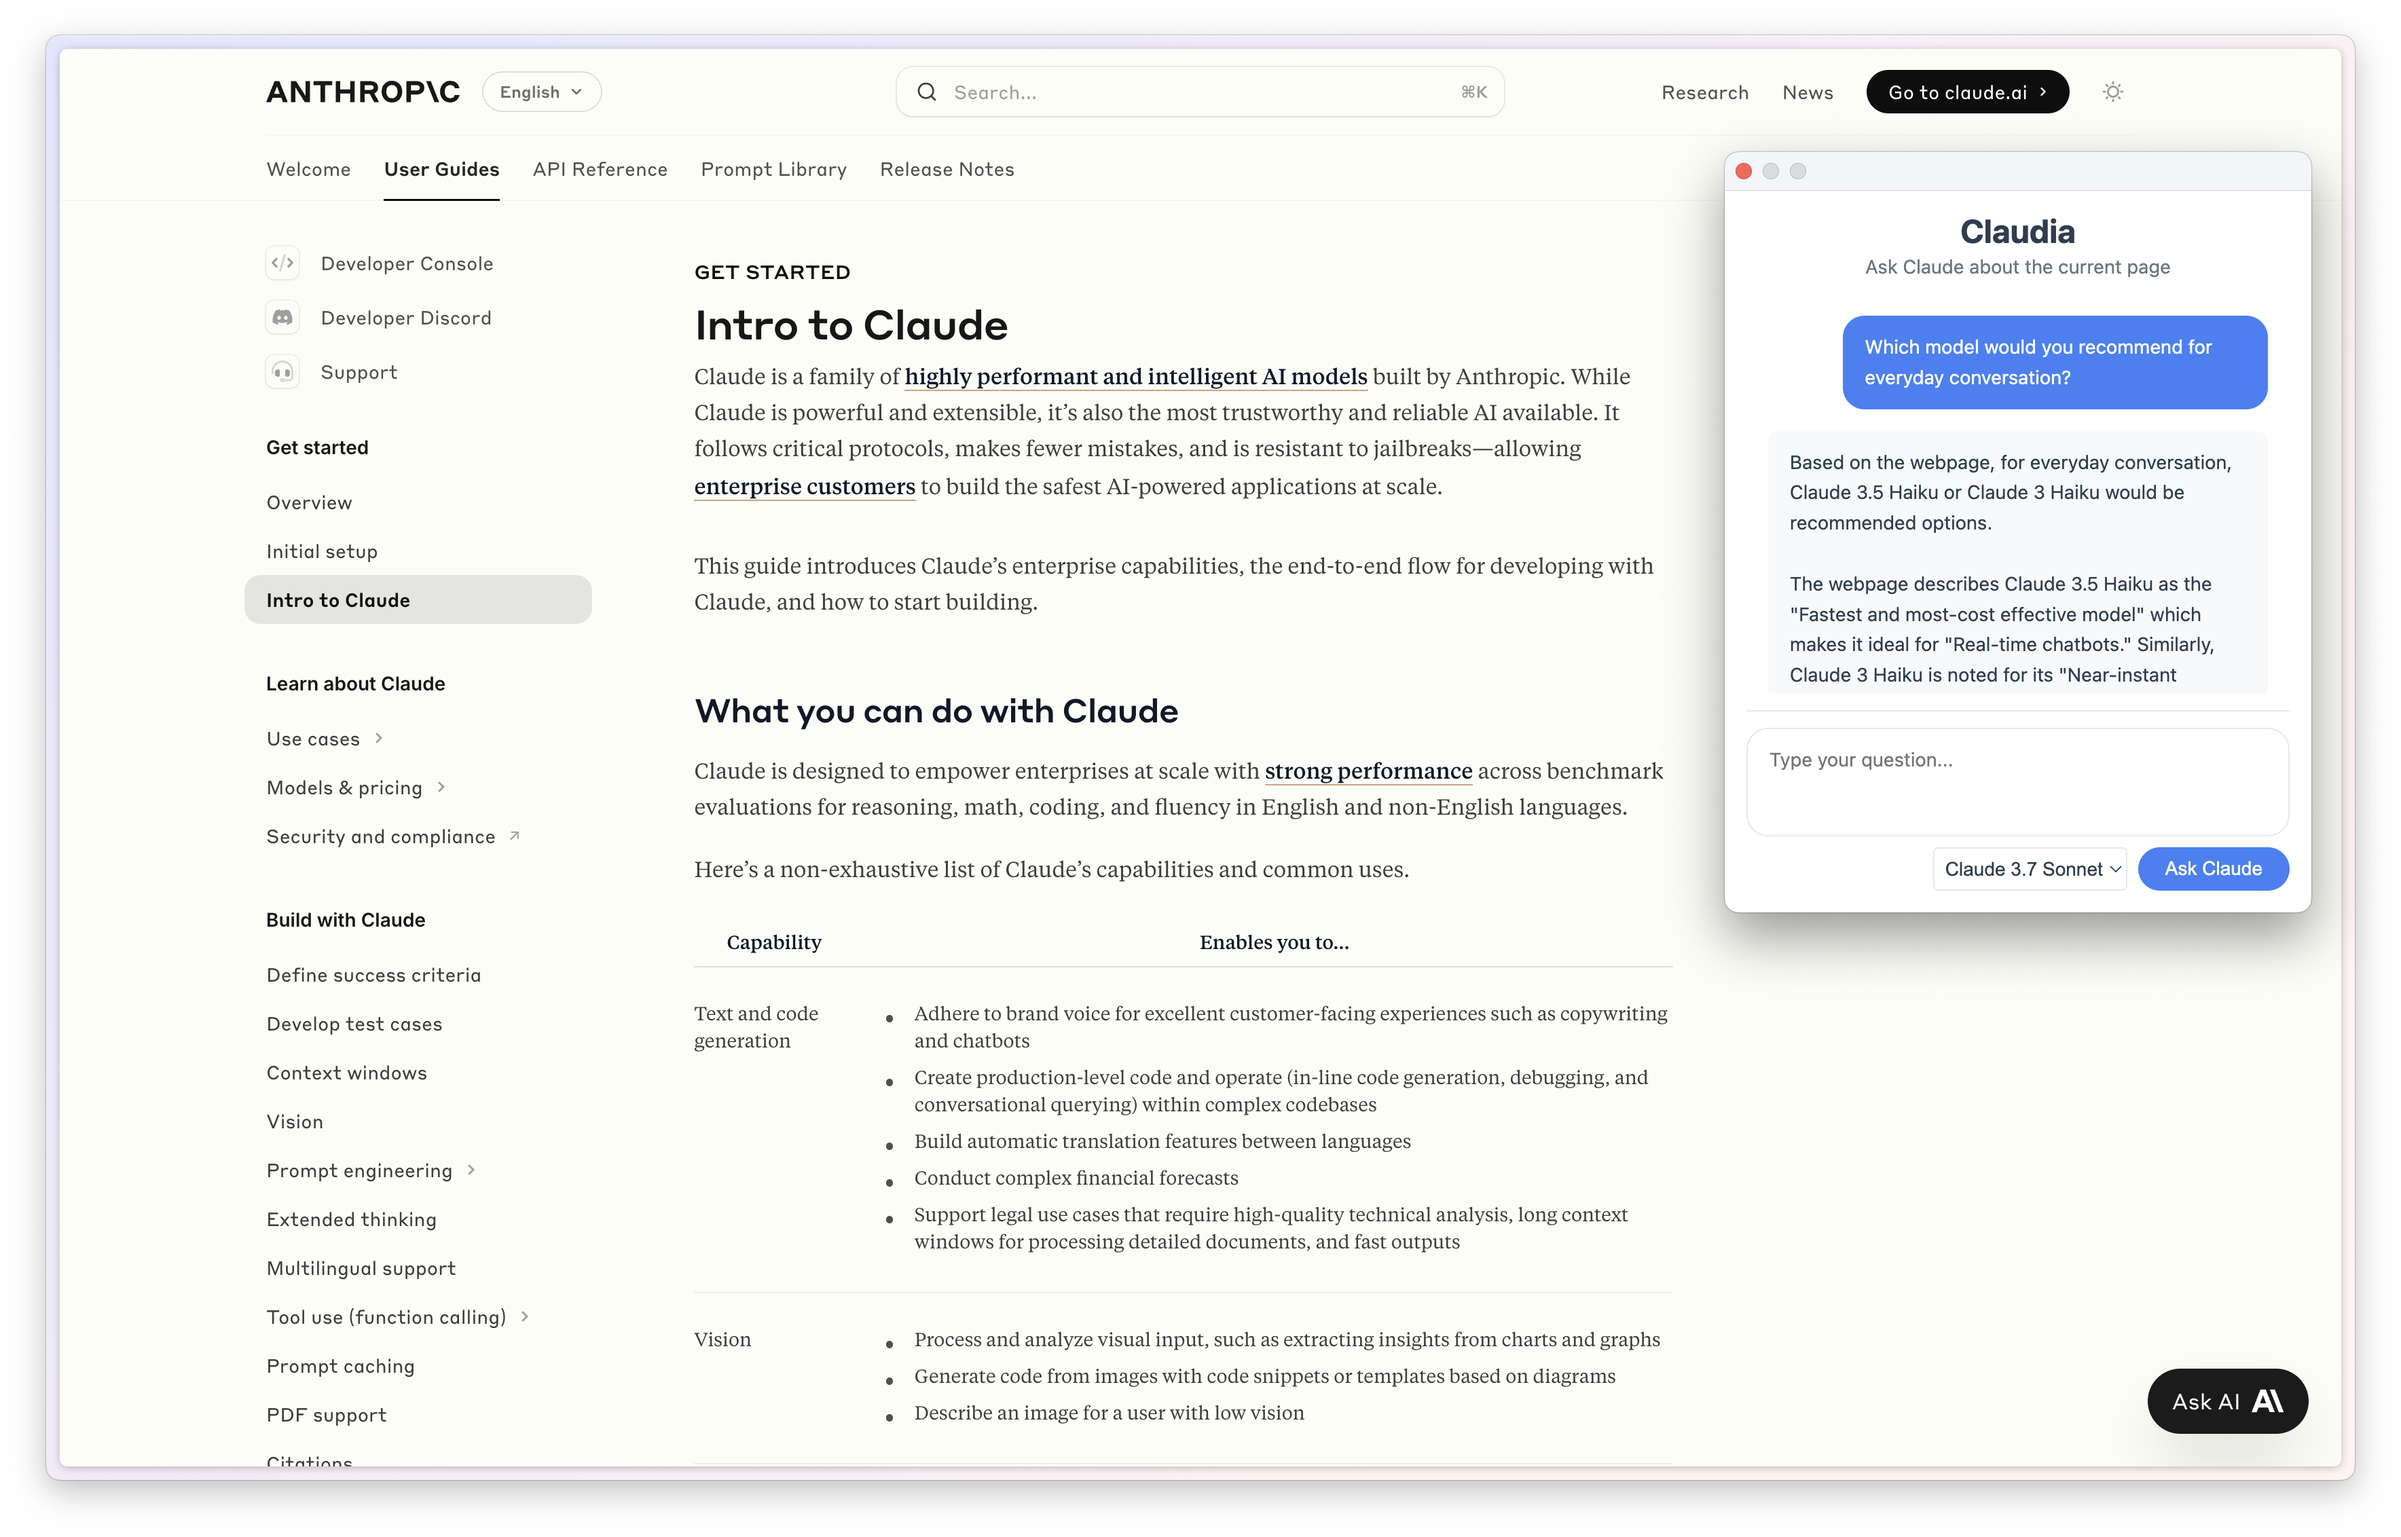
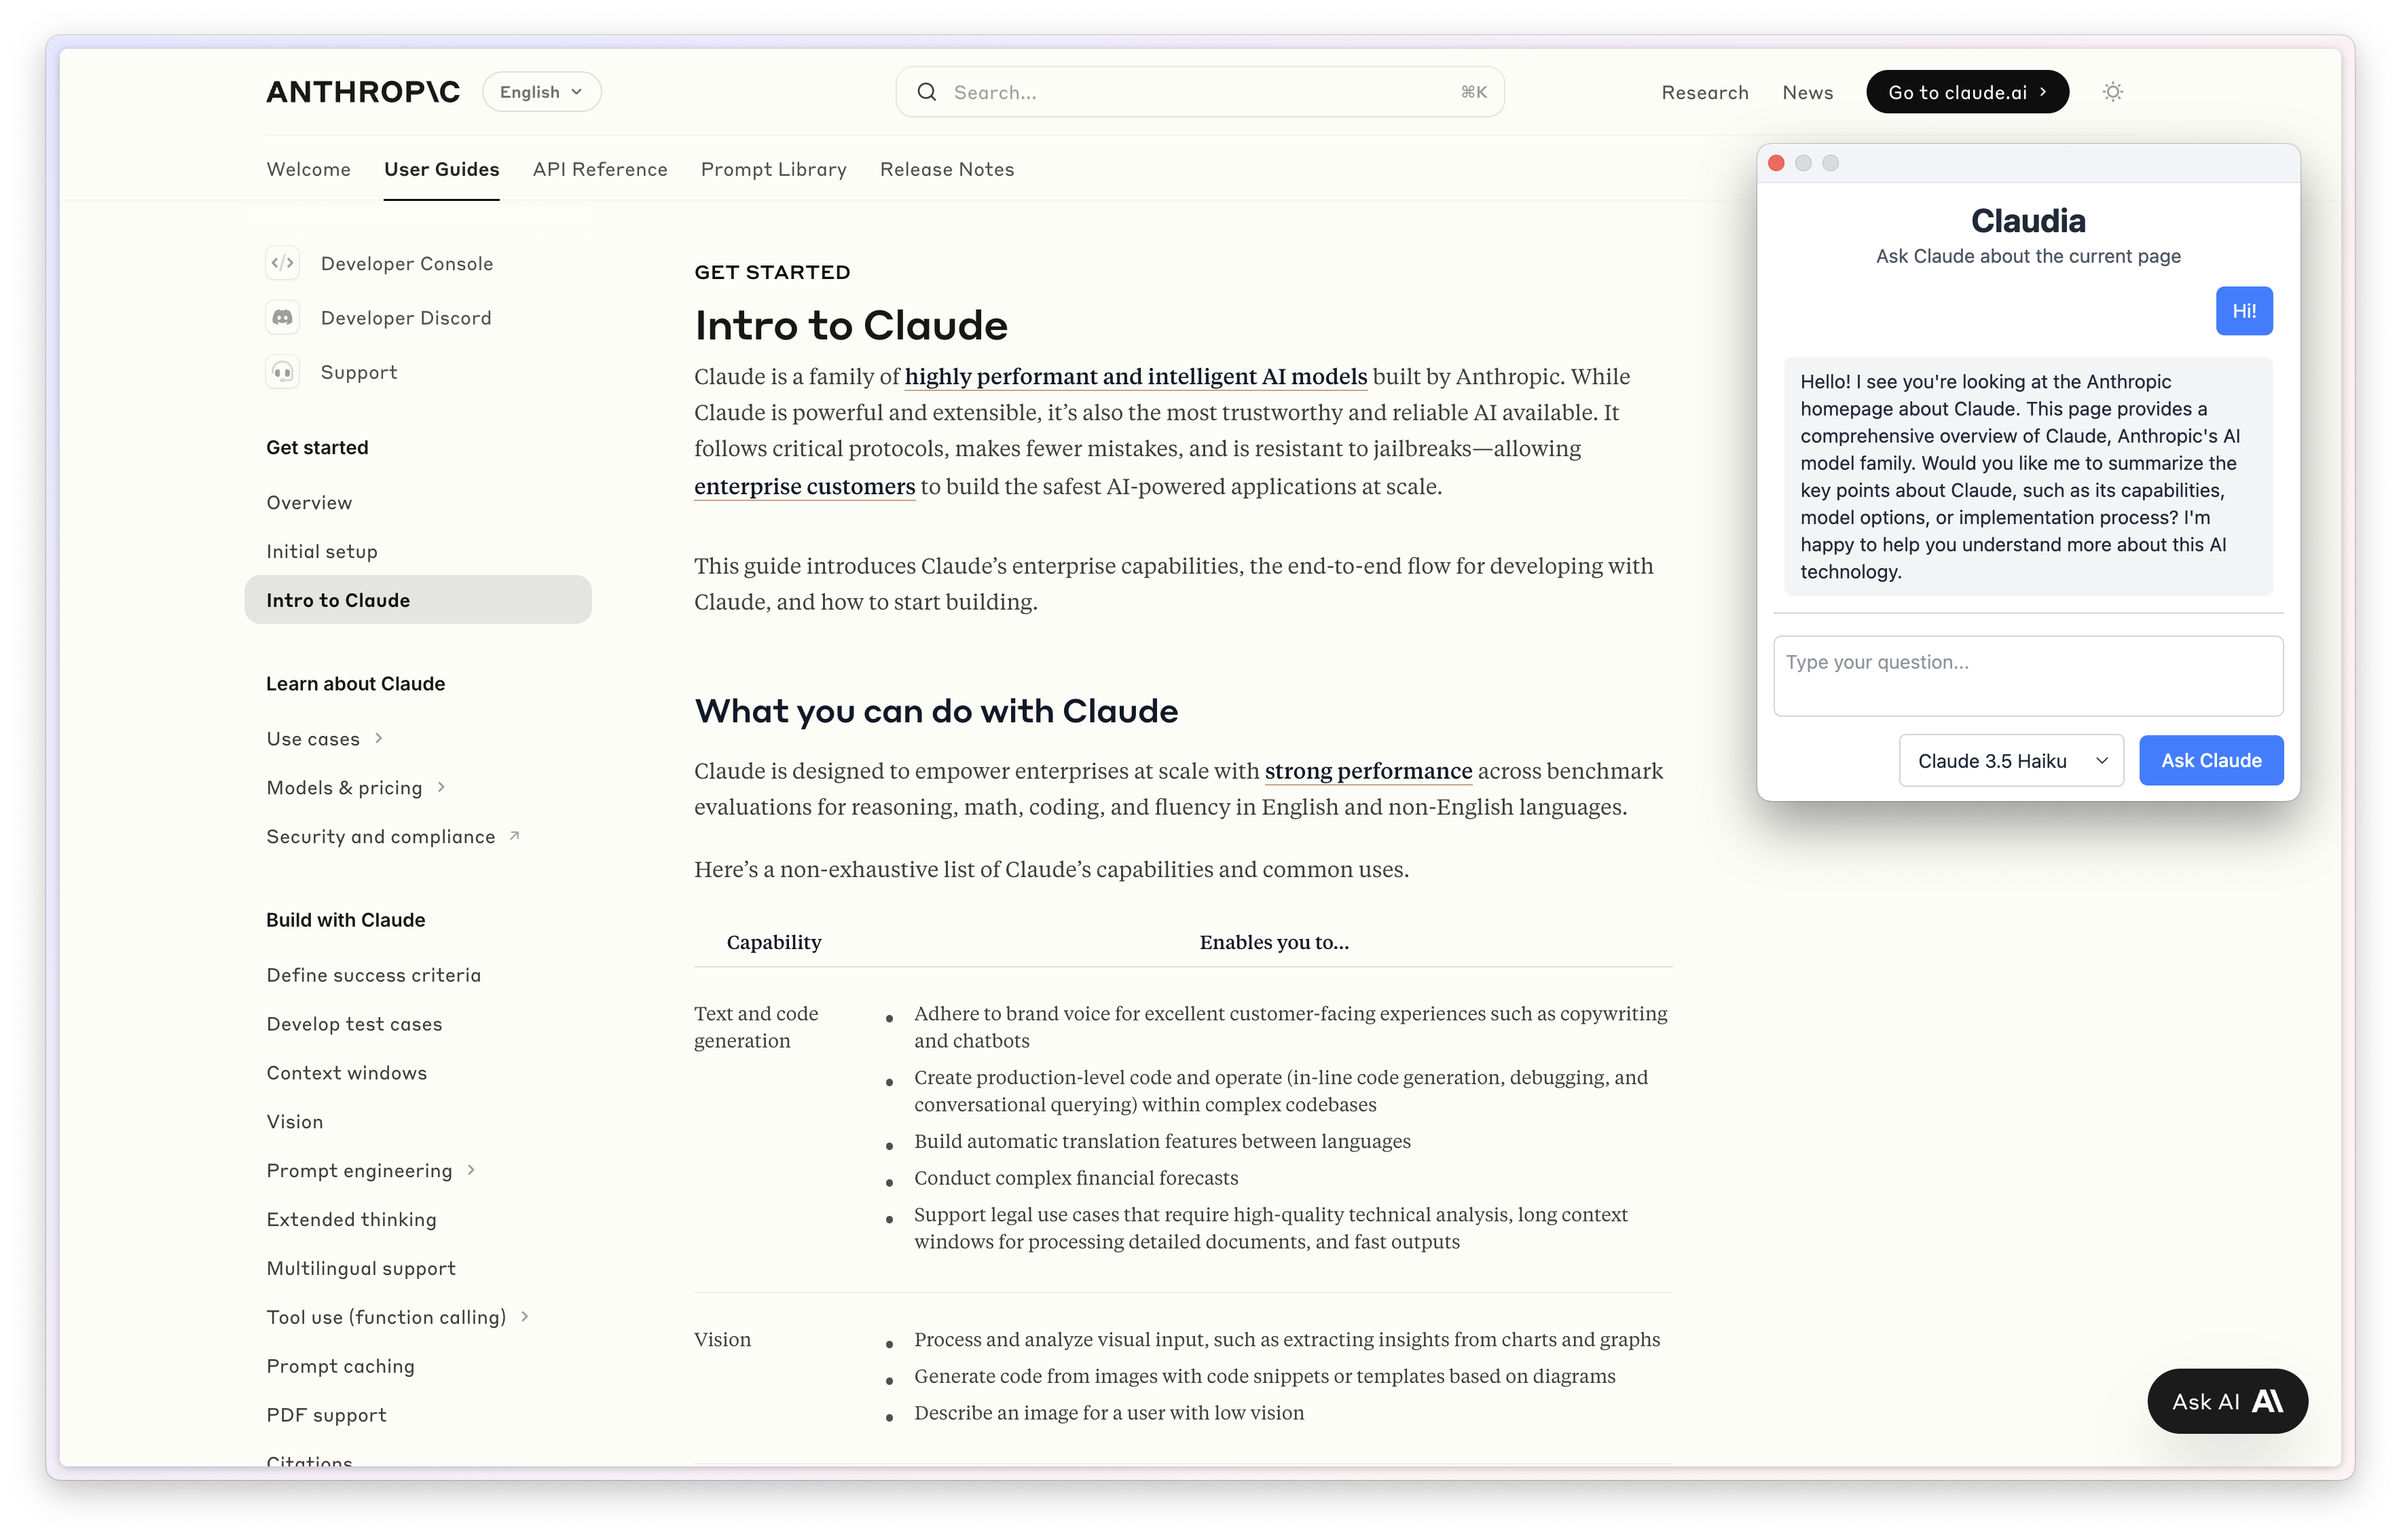
Adjust style and clean up

Changed region(s): [[0.6844, 0.0928, 0.9955, 0.6493]]

diff --git a/src/entrypoints/popup/Popup.tsx b/src/entrypoints/popup/Popup.tsx
@@ -80,7 +80,7 @@ export default function Popup() {
 
   if (!apiKey) {
     return (
-      <div className="w-[400px] space-y-4 p-3 font-sans text-[14px]">
+      <div className="w-[400px] space-y-4 p-3 font-sans text-[14px] text-gray-800">
         <p>Please set your API key in the options page.</p>
         <PrimaryButton onClick={() => browser.runtime.openOptionsPage()}>
           Open Options
@@ -90,17 +90,17 @@ export default function Popup() {
   }
 
   return (
-    <div className="flex max-h-[600px] w-[400px] flex-col p-3 font-sans text-[14px]">
+    <div className="flex max-h-[600px] w-[400px] flex-col p-3 font-sans text-[14px] text-gray-800">
       <div className="text-center">
         <h1 className="text-2xl font-bold">Claudia</h1>
-        <p className="text-gray-700">Ask Claude about the current page</p>
+        <p className="text-gray-600">Ask Claude about the current page</p>
       </div>
       <div className="flex flex-1 flex-col gap-4 overflow-y-auto px-2 py-3">
         {messages.map((message, index) => (
           <div
             key={index}
             className={`rounded-md px-3 py-2 ${
-              message.role === "user" ? "self-end bg-blue-50" : "self-start bg-gray-100"
+              message.role === "user" ? "self-end bg-blue-500 text-white" : "self-start bg-gray-100"
             }`}
             ref={
               index === messages.length - 1 && message.role === "user" ? lastUserMessageRef : null

diff --git a/src/entrypoints/options/Options.tsx b/src/entrypoints/options/Options.tsx
@@ -28,12 +28,12 @@ export default function Options() {
   };
 
   return (
-    <div className="mx-auto max-w-[600px] font-sans text-[14px]">
+    <div className="mx-auto max-w-[600px] font-sans text-[14px] text-gray-800">
       <div className="m-6 rounded-lg p-6 shadow-sm">
         <h1 className="text-2xl font-bold">Claudia Options</h1>
         <form onSubmit={handleSubmit} className="space-y-4">
           <div>
-            <label htmlFor="apiKey" className="mb-2 mt-6 block">
+            <label htmlFor="apiKey" className="mt-6 mb-2 block">
               API Key
             </label>
             <input

diff --git a/wxt.config.ts b/wxt.config.ts
@@ -4,7 +4,7 @@ import tailwindcss from "@tailwindcss/vite";
 export default defineConfig({
   manifest: {
     name: "Claudia",
-    version: "0.4.1",
+    version: "0.4.2",
     description: "Ask Claude about the current page.",
     permissions: ["storage", "activeTab", "scripting"],
     host_permissions: ["https://api.anthropic.com/*"],
